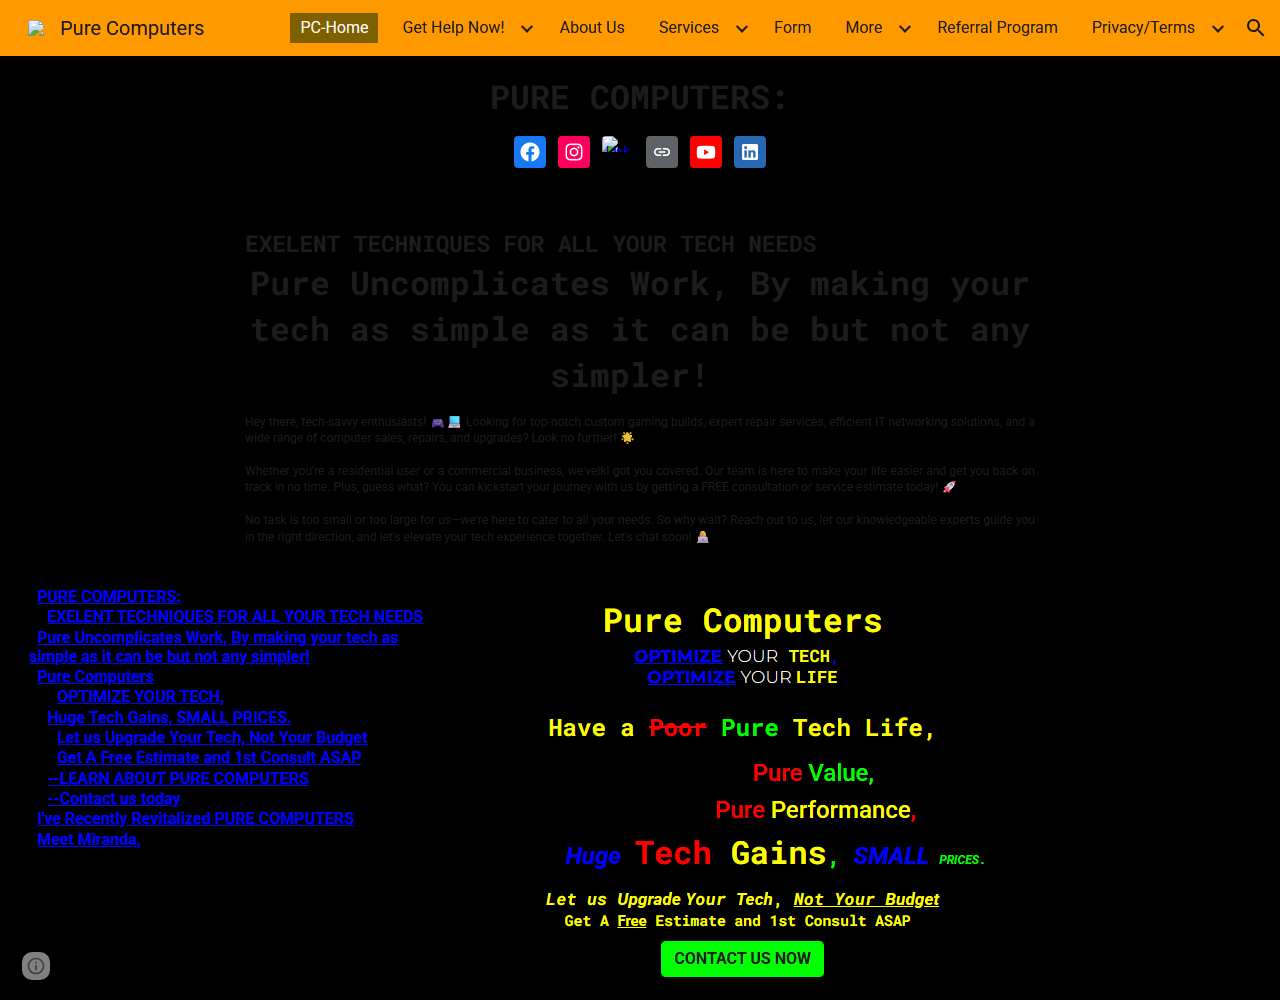
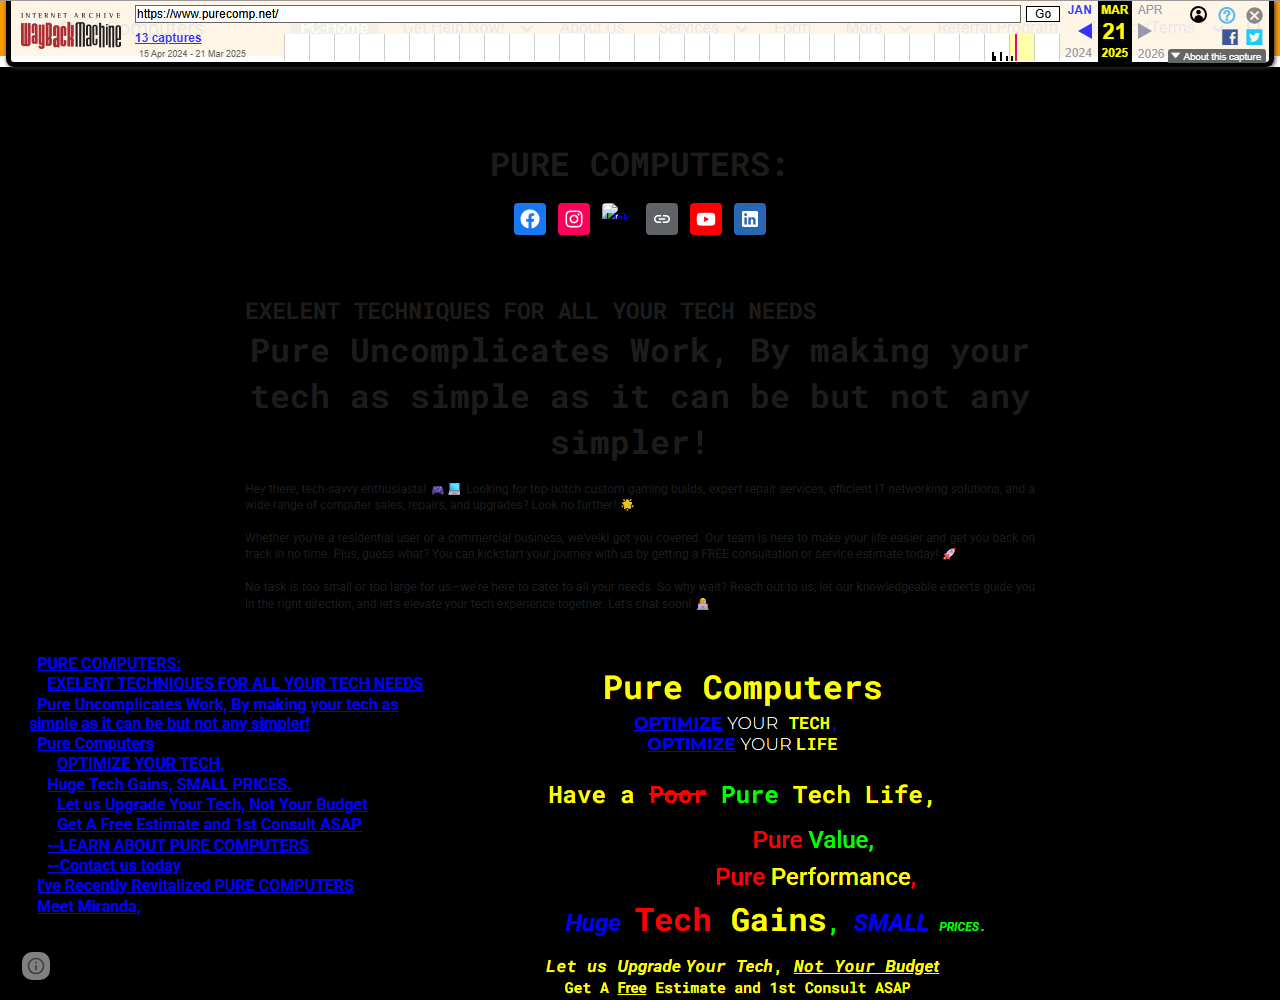
Final layout pass: solid orange header, white nav text with shadow, black page canvas, neon content sections

Changed region(s): [[0.0, 0.0, 1.0, 0.558], [0.4062, 0.589, 0.7812, 1.0], [0.0312, 0.589, 0.3438, 0.93]]

diff --git a/scripts/shoot.js b/scripts/shoot.js
@@ -1,0 +1,28 @@
+const { chromium } = require('playwright');
+
+(async () => {
+  const browser = await chromium.launch();
+  const page = await browser.newPage({ viewport: { width: 1280, height: 1000 } });
+
+  // Reference: Wayback snapshot of the original site
+  try {
+    await page.goto('https://web.archive.org/web/20250321025801/https://www.purecomp.net/', { waitUntil: 'networkidle', timeout: 60000 });
+    await page.waitForTimeout(2500);
+    await page.screenshot({ path: 'shot_wayback.png', fullPage: false });
+    console.log('WAYBACK OK');
+  } catch (e) {
+    console.log('WAYBACK FAIL', e.message);
+  }
+
+  // Our live Jekyll site
+  try {
+    await page.goto('https://nate-mina.github.io/puco-py/?v=' + Date.now(), { waitUntil: 'networkidle', timeout: 60000 });
+    await page.waitForTimeout(2000);
+    await page.screenshot({ path: 'shot_live_restyled.png', fullPage: false });
+    console.log('LIVE OK');
+  } catch (e) {
+    console.log('LIVE FAIL', e.message);
+  }
+
+  await browser.close();
+})();

diff --git a/_layouts/default.html b/_layouts/default.html
@@ -22,13 +22,13 @@
     padding-top: 56px;
   }
 
-  /* ---------- top orange header (Google Sites nav) ---------- */
+  /* ---------- top header (solid orange Google Sites nav) ---------- */
   #site-header {
     position: fixed;
     top: 0; left: 0; right: 0;
     z-index: 1000;
-    background: linear-gradient(180deg, #FFC107 0%, #FFA000 100%);
-    box-shadow: 0 2px 4px rgba(0,0,0,0.3);
+    background: #FFA000;
+    box-shadow: 0 1px 2px rgba(0,0,0,0.15);
     font-family: 'Roboto', 'Segoe UI', Arial, sans-serif;
     height: 56px;
   }
